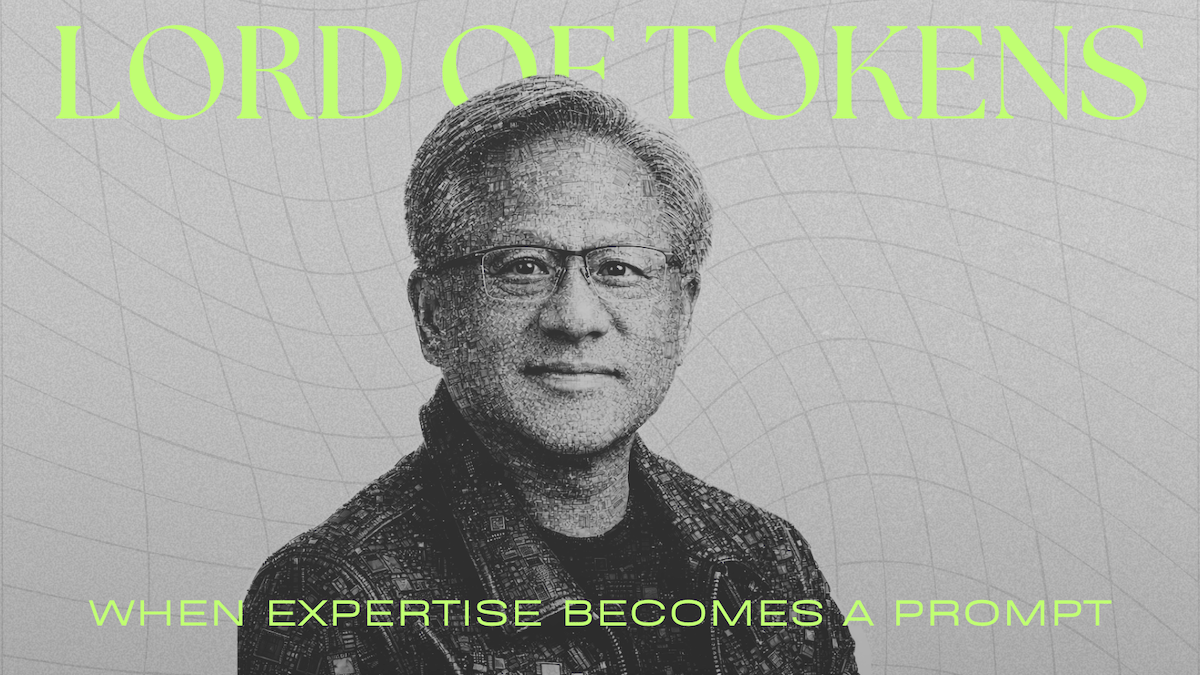
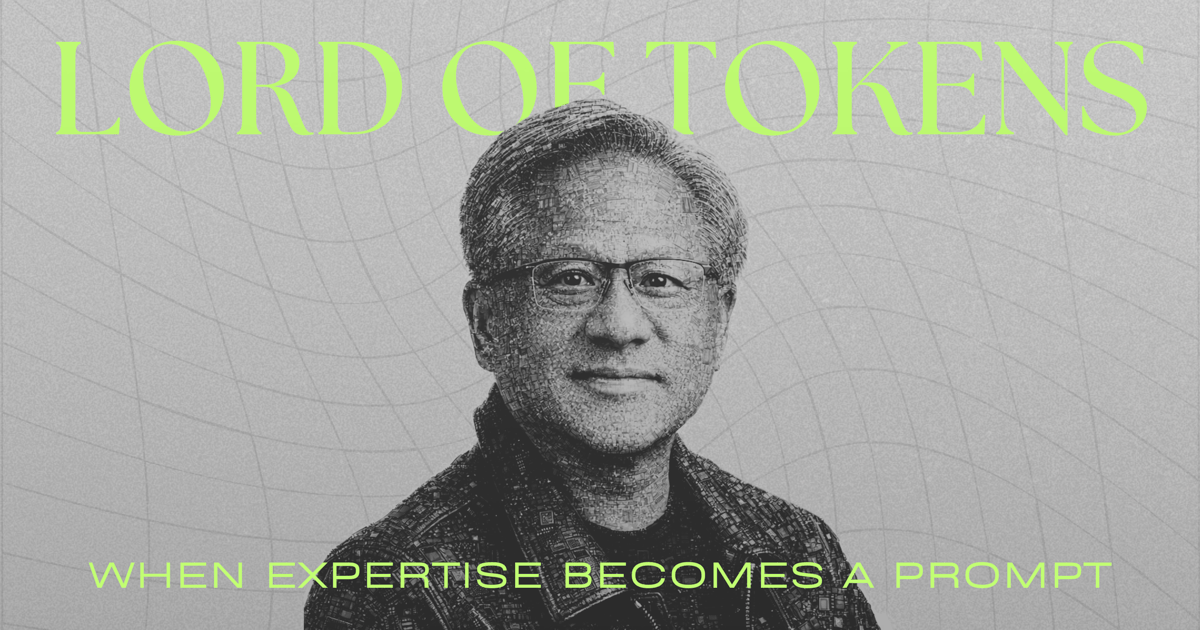
correct opengraph dimensions for cover image

Changed region(s): [[0.0308, 0.0302, 0.9558, 1.0], [0.0308, 0.0302, 0.0617, 0.0905]]

diff --git a/categories/ai/index.html b/categories/ai/index.html
@@ -130,10 +130,10 @@
 <article class="post-entry tag-entry"> 
 <figure class="entry-cover">
             <img loading="lazy"
-                srcset='https://singhkays.com/blog/lord-war-test-image-models/media/Lord-of-tokens-cover_hu_b5c3f5031cd5e300.png 360w,https://singhkays.com/blog/lord-war-test-image-models/media/Lord-of-tokens-cover_hu_5093f0f4341f8043.png 480w,https://singhkays.com/blog/lord-war-test-image-models/media/Lord-of-tokens-cover_hu_1945be8f444d27f.png 720w,https://singhkays.com/blog/lord-war-test-image-models/media/Lord-of-tokens-cover_hu_975d9d80535e9262.png 1080w,https://singhkays.com/blog/lord-war-test-image-models/media/Lord-of-tokens-cover.png 1200w'
+                srcset='https://singhkays.com/blog/lord-war-test-image-models/media/Lord-of-tokens-cover_hu_4aeb9683d0b56232.png 360w,https://singhkays.com/blog/lord-war-test-image-models/media/Lord-of-tokens-cover_hu_58c6d9f9269404f1.png 480w,https://singhkays.com/blog/lord-war-test-image-models/media/Lord-of-tokens-cover_hu_d4dcbb0a4b9d20bc.png 720w,https://singhkays.com/blog/lord-war-test-image-models/media/Lord-of-tokens-cover_hu_87f351ff2700eae2.png 1080w,https://singhkays.com/blog/lord-war-test-image-models/media/Lord-of-tokens-cover.png 1200w'
                 src="https://singhkays.com/blog/lord-war-test-image-models/media/Lord-of-tokens-cover.png"
                 sizes="(min-width: 768px) 720px, 100vw"
-                width="1200" height="675"
+                width="1200" height="630"
                 alt="">
 </figure>
   <header class="entry-header">

diff --git a/categories/image-generation/index.html b/categories/image-generation/index.html
@@ -130,10 +130,10 @@
 <article class="post-entry tag-entry"> 
 <figure class="entry-cover">
             <img loading="lazy"
-                srcset='https://singhkays.com/blog/lord-war-test-image-models/media/Lord-of-tokens-cover_hu_b5c3f5031cd5e300.png 360w,https://singhkays.com/blog/lord-war-test-image-models/media/Lord-of-tokens-cover_hu_5093f0f4341f8043.png 480w,https://singhkays.com/blog/lord-war-test-image-models/media/Lord-of-tokens-cover_hu_1945be8f444d27f.png 720w,https://singhkays.com/blog/lord-war-test-image-models/media/Lord-of-tokens-cover_hu_975d9d80535e9262.png 1080w,https://singhkays.com/blog/lord-war-test-image-models/media/Lord-of-tokens-cover.png 1200w'
+                srcset='https://singhkays.com/blog/lord-war-test-image-models/media/Lord-of-tokens-cover_hu_4aeb9683d0b56232.png 360w,https://singhkays.com/blog/lord-war-test-image-models/media/Lord-of-tokens-cover_hu_58c6d9f9269404f1.png 480w,https://singhkays.com/blog/lord-war-test-image-models/media/Lord-of-tokens-cover_hu_d4dcbb0a4b9d20bc.png 720w,https://singhkays.com/blog/lord-war-test-image-models/media/Lord-of-tokens-cover_hu_87f351ff2700eae2.png 1080w,https://singhkays.com/blog/lord-war-test-image-models/media/Lord-of-tokens-cover.png 1200w'
                 src="https://singhkays.com/blog/lord-war-test-image-models/media/Lord-of-tokens-cover.png"
                 sizes="(min-width: 768px) 720px, 100vw"
-                width="1200" height="675"
+                width="1200" height="630"
                 alt="">
 </figure>
   <header class="entry-header">

diff --git a/categories/models/index.html b/categories/models/index.html
@@ -130,10 +130,10 @@
 <article class="post-entry tag-entry"> 
 <figure class="entry-cover">
             <img loading="lazy"
-                srcset='https://singhkays.com/blog/lord-war-test-image-models/media/Lord-of-tokens-cover_hu_b5c3f5031cd5e300.png 360w,https://singhkays.com/blog/lord-war-test-image-models/media/Lord-of-tokens-cover_hu_5093f0f4341f8043.png 480w,https://singhkays.com/blog/lord-war-test-image-models/media/Lord-of-tokens-cover_hu_1945be8f444d27f.png 720w,https://singhkays.com/blog/lord-war-test-image-models/media/Lord-of-tokens-cover_hu_975d9d80535e9262.png 1080w,https://singhkays.com/blog/lord-war-test-image-models/media/Lord-of-tokens-cover.png 1200w'
+                srcset='https://singhkays.com/blog/lord-war-test-image-models/media/Lord-of-tokens-cover_hu_4aeb9683d0b56232.png 360w,https://singhkays.com/blog/lord-war-test-image-models/media/Lord-of-tokens-cover_hu_58c6d9f9269404f1.png 480w,https://singhkays.com/blog/lord-war-test-image-models/media/Lord-of-tokens-cover_hu_d4dcbb0a4b9d20bc.png 720w,https://singhkays.com/blog/lord-war-test-image-models/media/Lord-of-tokens-cover_hu_87f351ff2700eae2.png 1080w,https://singhkays.com/blog/lord-war-test-image-models/media/Lord-of-tokens-cover.png 1200w'
                 src="https://singhkays.com/blog/lord-war-test-image-models/media/Lord-of-tokens-cover.png"
                 sizes="(min-width: 768px) 720px, 100vw"
-                width="1200" height="675"
+                width="1200" height="630"
                 alt="">
 </figure>
   <header class="entry-header">

diff --git a/tags/ai-models/index.html b/tags/ai-models/index.html
@@ -130,10 +130,10 @@
 <article class="post-entry tag-entry"> 
 <figure class="entry-cover">
             <img loading="lazy"
-                srcset='https://singhkays.com/blog/lord-war-test-image-models/media/Lord-of-tokens-cover_hu_b5c3f5031cd5e300.png 360w,https://singhkays.com/blog/lord-war-test-image-models/media/Lord-of-tokens-cover_hu_5093f0f4341f8043.png 480w,https://singhkays.com/blog/lord-war-test-image-models/media/Lord-of-tokens-cover_hu_1945be8f444d27f.png 720w,https://singhkays.com/blog/lord-war-test-image-models/media/Lord-of-tokens-cover_hu_975d9d80535e9262.png 1080w,https://singhkays.com/blog/lord-war-test-image-models/media/Lord-of-tokens-cover.png 1200w'
+                srcset='https://singhkays.com/blog/lord-war-test-image-models/media/Lord-of-tokens-cover_hu_4aeb9683d0b56232.png 360w,https://singhkays.com/blog/lord-war-test-image-models/media/Lord-of-tokens-cover_hu_58c6d9f9269404f1.png 480w,https://singhkays.com/blog/lord-war-test-image-models/media/Lord-of-tokens-cover_hu_d4dcbb0a4b9d20bc.png 720w,https://singhkays.com/blog/lord-war-test-image-models/media/Lord-of-tokens-cover_hu_87f351ff2700eae2.png 1080w,https://singhkays.com/blog/lord-war-test-image-models/media/Lord-of-tokens-cover.png 1200w'
                 src="https://singhkays.com/blog/lord-war-test-image-models/media/Lord-of-tokens-cover.png"
                 sizes="(min-width: 768px) 720px, 100vw"
-                width="1200" height="675"
+                width="1200" height="630"
                 alt="">
 </figure>
   <header class="entry-header">

diff --git a/tags/ai/index.html b/tags/ai/index.html
@@ -130,10 +130,10 @@
 <article class="post-entry tag-entry"> 
 <figure class="entry-cover">
             <img loading="lazy"
-                srcset='https://singhkays.com/blog/lord-war-test-image-models/media/Lord-of-tokens-cover_hu_b5c3f5031cd5e300.png 360w,https://singhkays.com/blog/lord-war-test-image-models/media/Lord-of-tokens-cover_hu_5093f0f4341f8043.png 480w,https://singhkays.com/blog/lord-war-test-image-models/media/Lord-of-tokens-cover_hu_1945be8f444d27f.png 720w,https://singhkays.com/blog/lord-war-test-image-models/media/Lord-of-tokens-cover_hu_975d9d80535e9262.png 1080w,https://singhkays.com/blog/lord-war-test-image-models/media/Lord-of-tokens-cover.png 1200w'
+                srcset='https://singhkays.com/blog/lord-war-test-image-models/media/Lord-of-tokens-cover_hu_4aeb9683d0b56232.png 360w,https://singhkays.com/blog/lord-war-test-image-models/media/Lord-of-tokens-cover_hu_58c6d9f9269404f1.png 480w,https://singhkays.com/blog/lord-war-test-image-models/media/Lord-of-tokens-cover_hu_d4dcbb0a4b9d20bc.png 720w,https://singhkays.com/blog/lord-war-test-image-models/media/Lord-of-tokens-cover_hu_87f351ff2700eae2.png 1080w,https://singhkays.com/blog/lord-war-test-image-models/media/Lord-of-tokens-cover.png 1200w'
                 src="https://singhkays.com/blog/lord-war-test-image-models/media/Lord-of-tokens-cover.png"
                 sizes="(min-width: 768px) 720px, 100vw"
-                width="1200" height="675"
+                width="1200" height="630"
                 alt="">
 </figure>
   <header class="entry-header">

diff --git a/tags/artificial-intelligence/index.html b/tags/artificial-intelligence/index.html
@@ -130,10 +130,10 @@
 <article class="post-entry tag-entry"> 
 <figure class="entry-cover">
             <img loading="lazy"
-                srcset='https://singhkays.com/blog/lord-war-test-image-models/media/Lord-of-tokens-cover_hu_b5c3f5031cd5e300.png 360w,https://singhkays.com/blog/lord-war-test-image-models/media/Lord-of-tokens-cover_hu_5093f0f4341f8043.png 480w,https://singhkays.com/blog/lord-war-test-image-models/media/Lord-of-tokens-cover_hu_1945be8f444d27f.png 720w,https://singhkays.com/blog/lord-war-test-image-models/media/Lord-of-tokens-cover_hu_975d9d80535e9262.png 1080w,https://singhkays.com/blog/lord-war-test-image-models/media/Lord-of-tokens-cover.png 1200w'
+                srcset='https://singhkays.com/blog/lord-war-test-image-models/media/Lord-of-tokens-cover_hu_4aeb9683d0b56232.png 360w,https://singhkays.com/blog/lord-war-test-image-models/media/Lord-of-tokens-cover_hu_58c6d9f9269404f1.png 480w,https://singhkays.com/blog/lord-war-test-image-models/media/Lord-of-tokens-cover_hu_d4dcbb0a4b9d20bc.png 720w,https://singhkays.com/blog/lord-war-test-image-models/media/Lord-of-tokens-cover_hu_87f351ff2700eae2.png 1080w,https://singhkays.com/blog/lord-war-test-image-models/media/Lord-of-tokens-cover.png 1200w'
                 src="https://singhkays.com/blog/lord-war-test-image-models/media/Lord-of-tokens-cover.png"
                 sizes="(min-width: 768px) 720px, 100vw"
-                width="1200" height="675"
+                width="1200" height="630"
                 alt="">
 </figure>
   <header class="entry-header">

diff --git a/tags/image-generation/index.html b/tags/image-generation/index.html
@@ -130,10 +130,10 @@
 <article class="post-entry tag-entry"> 
 <figure class="entry-cover">
             <img loading="lazy"
-                srcset='https://singhkays.com/blog/lord-war-test-image-models/media/Lord-of-tokens-cover_hu_b5c3f5031cd5e300.png 360w,https://singhkays.com/blog/lord-war-test-image-models/media/Lord-of-tokens-cover_hu_5093f0f4341f8043.png 480w,https://singhkays.com/blog/lord-war-test-image-models/media/Lord-of-tokens-cover_hu_1945be8f444d27f.png 720w,https://singhkays.com/blog/lord-war-test-image-models/media/Lord-of-tokens-cover_hu_975d9d80535e9262.png 1080w,https://singhkays.com/blog/lord-war-test-image-models/media/Lord-of-tokens-cover.png 1200w'
+                srcset='https://singhkays.com/blog/lord-war-test-image-models/media/Lord-of-tokens-cover_hu_4aeb9683d0b56232.png 360w,https://singhkays.com/blog/lord-war-test-image-models/media/Lord-of-tokens-cover_hu_58c6d9f9269404f1.png 480w,https://singhkays.com/blog/lord-war-test-image-models/media/Lord-of-tokens-cover_hu_d4dcbb0a4b9d20bc.png 720w,https://singhkays.com/blog/lord-war-test-image-models/media/Lord-of-tokens-cover_hu_87f351ff2700eae2.png 1080w,https://singhkays.com/blog/lord-war-test-image-models/media/Lord-of-tokens-cover.png 1200w'
                 src="https://singhkays.com/blog/lord-war-test-image-models/media/Lord-of-tokens-cover.png"
                 sizes="(min-width: 768px) 720px, 100vw"
-                width="1200" height="675"
+                width="1200" height="630"
                 alt="">
 </figure>
   <header class="entry-header">

diff --git a/blog/index.html b/blog/index.html
@@ -145,10 +145,10 @@
 <article class="post-entry"> 
 <figure class="entry-cover">
             <img loading="lazy"
-                srcset='https://singhkays.com/blog/lord-war-test-image-models/media/Lord-of-tokens-cover_hu_b5c3f5031cd5e300.png 360w,https://singhkays.com/blog/lord-war-test-image-models/media/Lord-of-tokens-cover_hu_5093f0f4341f8043.png 480w,https://singhkays.com/blog/lord-war-test-image-models/media/Lord-of-tokens-cover_hu_1945be8f444d27f.png 720w,https://singhkays.com/blog/lord-war-test-image-models/media/Lord-of-tokens-cover_hu_975d9d80535e9262.png 1080w,https://singhkays.com/blog/lord-war-test-image-models/media/Lord-of-tokens-cover.png 1200w'
+                srcset='https://singhkays.com/blog/lord-war-test-image-models/media/Lord-of-tokens-cover_hu_4aeb9683d0b56232.png 360w,https://singhkays.com/blog/lord-war-test-image-models/media/Lord-of-tokens-cover_hu_58c6d9f9269404f1.png 480w,https://singhkays.com/blog/lord-war-test-image-models/media/Lord-of-tokens-cover_hu_d4dcbb0a4b9d20bc.png 720w,https://singhkays.com/blog/lord-war-test-image-models/media/Lord-of-tokens-cover_hu_87f351ff2700eae2.png 1080w,https://singhkays.com/blog/lord-war-test-image-models/media/Lord-of-tokens-cover.png 1200w'
                 src="https://singhkays.com/blog/lord-war-test-image-models/media/Lord-of-tokens-cover.png"
                 sizes="(min-width: 768px) 720px, 100vw"
-                width="1200" height="675"
+                width="1200" height="630"
                 alt="">
 </figure>
   <header class="entry-header">

diff --git a/index.html b/index.html
@@ -192,10 +192,10 @@
 <article class="post-entry"> 
 <figure class="entry-cover">
             <img loading="lazy"
-                srcset='https://singhkays.com/blog/lord-war-test-image-models/media/Lord-of-tokens-cover_hu_b5c3f5031cd5e300.png 360w,https://singhkays.com/blog/lord-war-test-image-models/media/Lord-of-tokens-cover_hu_5093f0f4341f8043.png 480w,https://singhkays.com/blog/lord-war-test-image-models/media/Lord-of-tokens-cover_hu_1945be8f444d27f.png 720w,https://singhkays.com/blog/lord-war-test-image-models/media/Lord-of-tokens-cover_hu_975d9d80535e9262.png 1080w,https://singhkays.com/blog/lord-war-test-image-models/media/Lord-of-tokens-cover.png 1200w'
+                srcset='https://singhkays.com/blog/lord-war-test-image-models/media/Lord-of-tokens-cover_hu_4aeb9683d0b56232.png 360w,https://singhkays.com/blog/lord-war-test-image-models/media/Lord-of-tokens-cover_hu_58c6d9f9269404f1.png 480w,https://singhkays.com/blog/lord-war-test-image-models/media/Lord-of-tokens-cover_hu_d4dcbb0a4b9d20bc.png 720w,https://singhkays.com/blog/lord-war-test-image-models/media/Lord-of-tokens-cover_hu_87f351ff2700eae2.png 1080w,https://singhkays.com/blog/lord-war-test-image-models/media/Lord-of-tokens-cover.png 1200w'
                 src="https://singhkays.com/blog/lord-war-test-image-models/media/Lord-of-tokens-cover.png"
                 sizes="(min-width: 768px) 720px, 100vw"
-                width="1200" height="675"
+                width="1200" height="630"
                 alt="">
 </figure>
   <header class="entry-header">

diff --git a/blog/lord-war-test-image-models/index.html b/blog/lord-war-test-image-models/index.html
@@ -203,10 +203,10 @@
   </header> 
 <figure class="entry-cover">
             <img loading="eager"
-                srcset='https://singhkays.com/blog/lord-war-test-image-models/media/Lord-of-tokens-cover_hu_b5c3f5031cd5e300.png 360w,https://singhkays.com/blog/lord-war-test-image-models/media/Lord-of-tokens-cover_hu_5093f0f4341f8043.png 480w,https://singhkays.com/blog/lord-war-test-image-models/media/Lord-of-tokens-cover_hu_1945be8f444d27f.png 720w,https://singhkays.com/blog/lord-war-test-image-models/media/Lord-of-tokens-cover_hu_975d9d80535e9262.png 1080w,https://singhkays.com/blog/lord-war-test-image-models/media/Lord-of-tokens-cover.png 1200w'
+                srcset='https://singhkays.com/blog/lord-war-test-image-models/media/Lord-of-tokens-cover_hu_4aeb9683d0b56232.png 360w,https://singhkays.com/blog/lord-war-test-image-models/media/Lord-of-tokens-cover_hu_58c6d9f9269404f1.png 480w,https://singhkays.com/blog/lord-war-test-image-models/media/Lord-of-tokens-cover_hu_d4dcbb0a4b9d20bc.png 720w,https://singhkays.com/blog/lord-war-test-image-models/media/Lord-of-tokens-cover_hu_87f351ff2700eae2.png 1080w,https://singhkays.com/blog/lord-war-test-image-models/media/Lord-of-tokens-cover.png 1200w'
                 src="https://singhkays.com/blog/lord-war-test-image-models/media/Lord-of-tokens-cover.png"
                 sizes="(min-width: 768px) 720px, 100vw"
-                width="1200" height="675"
+                width="1200" height="630"
                 alt="">
         
 </figure>
